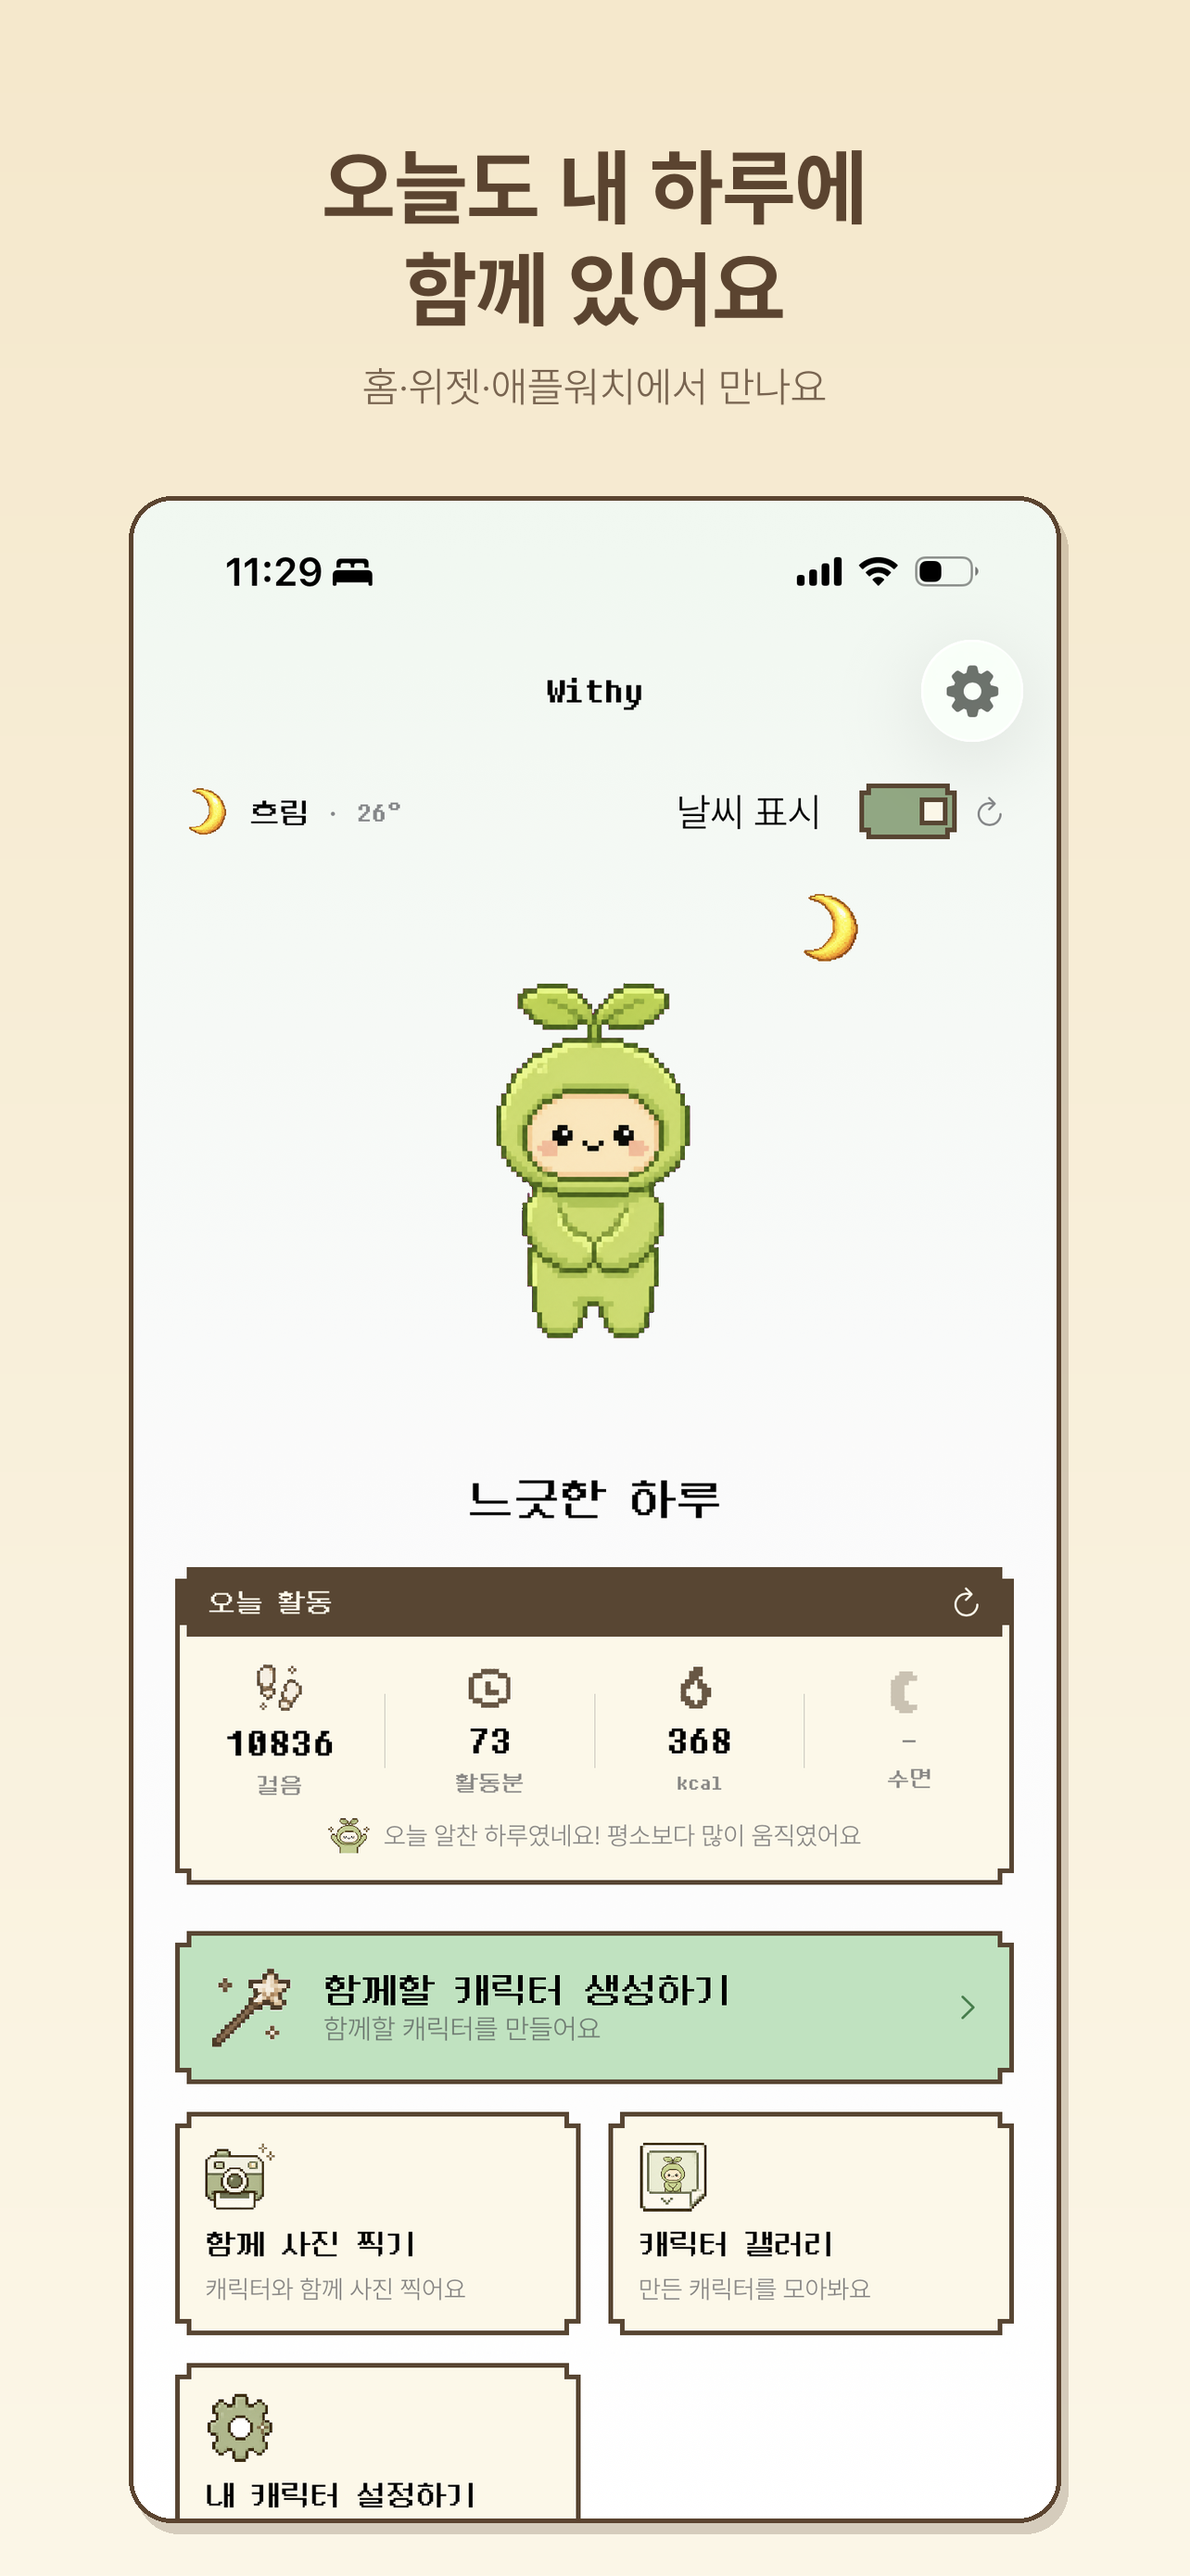
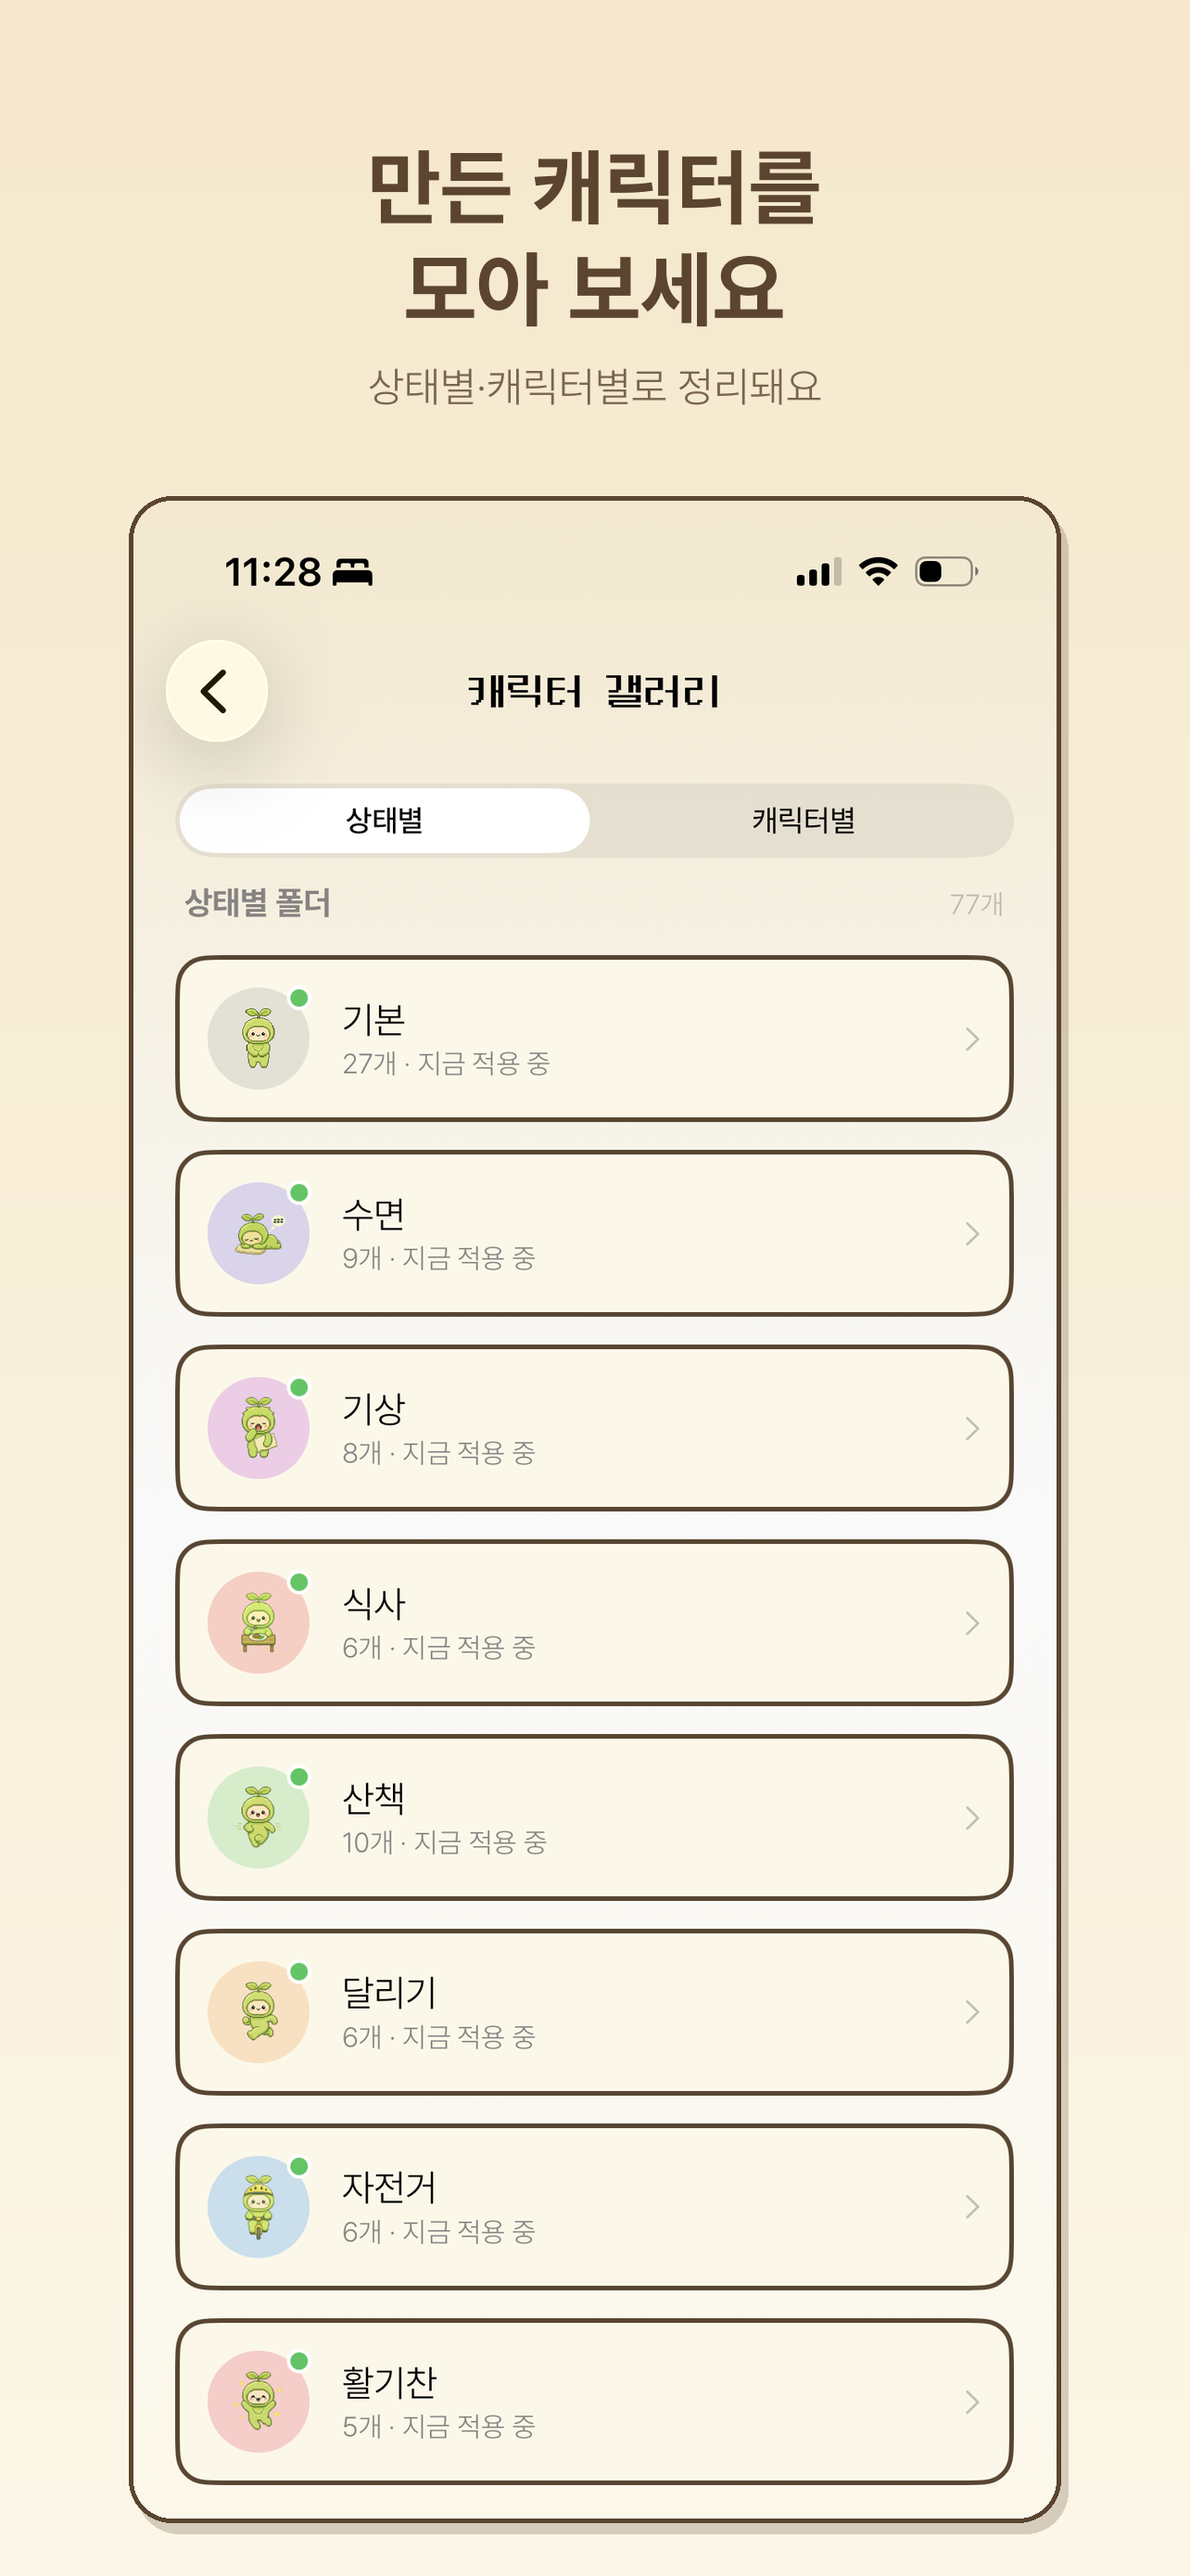
fix(ios): 이름은 어울리는 문구에만 붙임 + '내 이미지로 만들기' 스크린샷 추가
- '코코의 쿨쿨… 자고 있어요' 처럼 동사구 문구에 '~의'를 붙이면 어색해서,
  명사구 문구 11개에만 이름을 붙이도록 captionAllowsNamePrefix 추가
  (붙는 것: 느긋한 하루·에너지 넘치는 하루!·구름 낀 하루·흐린 날 산책·눈길 산책·
   햇살 아래 달리기·흐린 날 달리기·눈 속 달리기·햇살 자전거·흐린 날 자전거·눈 속 자전거)
- 스토어 스크린샷 9장 — '내 사진을 그대로 캐릭터로' 컷 추가

Claude-Session: https://claude.ai/code/session_017Pm38LS5ay4WTNbe8Gm7Vz

diff --git a/withu/Character/CharacterState.swift b/withu/Character/CharacterState.swift
@@ -102,6 +102,20 @@ enum CharacterState: String, Codable, Hashable, CaseIterable {
         }
     }
 
+    /// 이름을 '{이름}의 ~' 로 앞에 붙여도 자연스러운 문구인지.
+    /// 명사구만 true — '자고 있어요' · '산책 중' 같은 동사구는 '코코의 산책 중' 처럼 어색해진다.
+    var captionAllowsNamePrefix: Bool {
+        switch self {
+        case .idle, .energetic, .cloudy,
+             .walkingCloudy, .walkingSnowy,
+             .runningSunny, .runningCloudy, .runningSnowy,
+             .cyclingSunny, .cyclingCloudy, .cyclingSnowy:
+            return true
+        default:
+            return false
+        }
+    }
+
     var caption: String {
         switch self {
         case .idle:           return String(localized: "느긋한 하루")

diff --git a/withu/ContentView.swift b/withu/ContentView.swift
@@ -66,6 +66,8 @@ struct ContentView: View {
     /// 이름이 없으면 원래 문구 그대로.
     private var captionWithName: String {
         let caption = characterState.caption
+        // 동사구 문구('산책 중', '자고 있어요')는 '~의'를 붙이면 어색해서 이름을 안 붙인다.
+        guard characterState.captionAllowsNamePrefix else { return caption }
         // 1순위: 그 캐릭터를 만들 때 붙인 이름, 2순위: '내 캐릭터 설정'의 이름.
         // 프로필 기본값("내 캐릭터")은 사용자가 정한 이름이 아니므로 안 쓴다.
         let profileName = profile.name.trimmingCharacters(in: .whitespacesAndNewlines)
